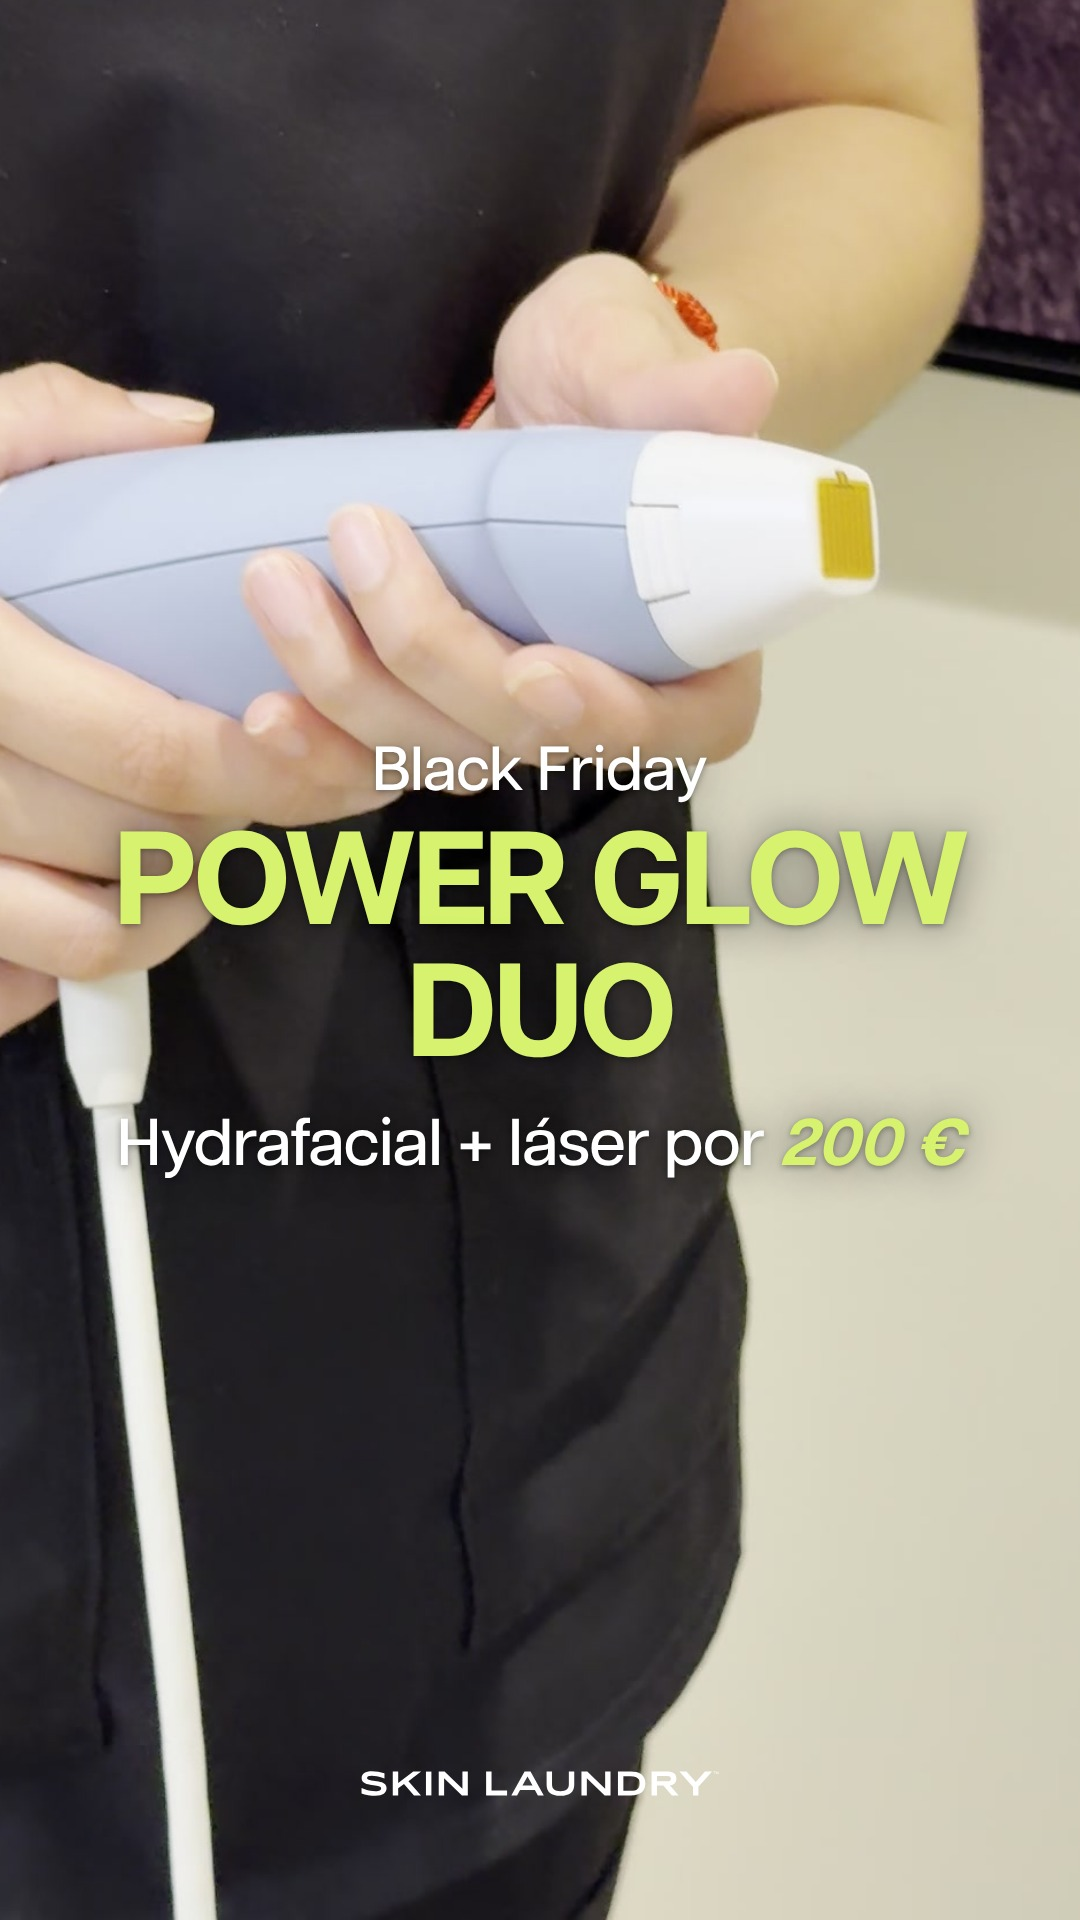
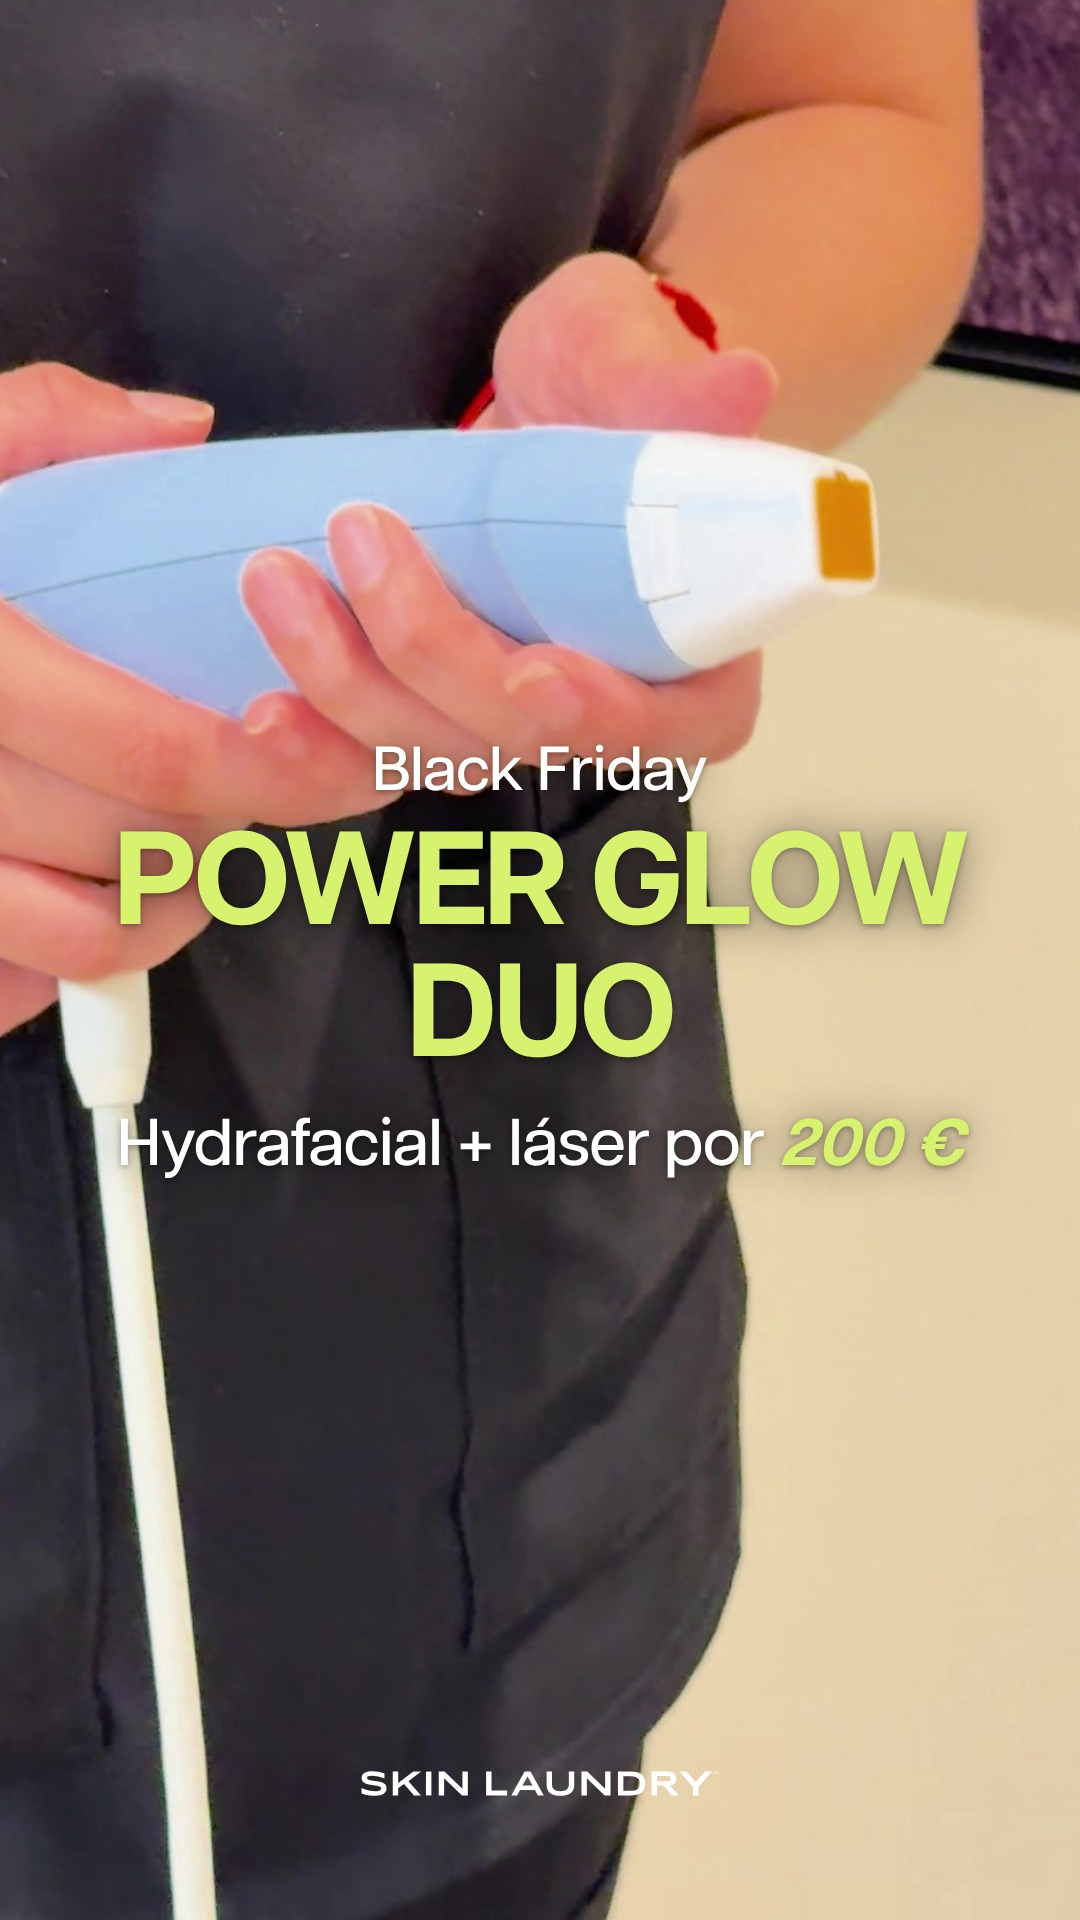
Skin Laundry: portada del 28 con conversión HDR a SDR (color real)
Claude-Session: https://claude.ai/code/session_01JZ4qrB4vBJCM1LriYw1bZU

diff --git a/public/pitch/skin-laundry-calendario/noviembre/index.html b/public/pitch/skin-laundry-calendario/noviembre/index.html
@@ -827,7 +827,7 @@ Reserva la tuya desde el enlace de la bio.
 📍 Av. Diagonal 610, Barcelona
 #Manchas #Melasma #LaserFacial #SkinLaundryBarcelona` },
 
-{ d:28, formato:"Reel", portada:"/pitch/skin-laundry-calendario/noviembre/img/portada_28.jpg?v=11231721", media:"/pitch/skin-laundry-calendario/noviembre/img/drive-d28.mp4?v=11231608", estado:"listo", nota:"Montado desde brutos sin diseño, todo sobre vídeo (sin fondos de color): sesión de láser de AAM (junio) + planos cortos del UGC de Guillermo (confirmar derechos con AAM) · precio Black Friday 200 € (antes 380 €), compra hasta el 30/11 y uso hasta el 28/02 (correo de Carlota, 30/10) · house nuevo a 126 BPM · hay versión sin música",  cubo:"Promociones", tema:"Power Glow", hora:"11:00h",
+{ d:28, formato:"Reel", portada:"/pitch/skin-laundry-calendario/noviembre/img/portada_28.jpg?v=11231841", media:"/pitch/skin-laundry-calendario/noviembre/img/drive-d28.mp4?v=11231608", estado:"listo", nota:"Montado desde brutos sin diseño, todo sobre vídeo (sin fondos de color): sesión de láser de AAM (junio) + planos cortos del UGC de Guillermo (confirmar derechos con AAM) · precio Black Friday 200 € (antes 380 €), compra hasta el 30/11 y uso hasta el 28/02 (correo de Carlota, 30/10) · house nuevo a 126 BPM · hay versión sin música",  cubo:"Promociones", tema:"Power Glow", hora:"11:00h",
   pieza:"Power Glow Duo: Hydrafacial + láser",
   base:"Excel 2025: Power Glow", cta:"Reserva antes de que acabe",
   idea:["Gancho sobre la fachada: «Dos tratamientos, una sola cita»","Píldora POWER GLOW DUO · Hydrafacial + láser en la misma cita","Píldora LÁSER · Unifica el tono y da luz","Píldora BLACK FRIDAY · 380 € tachado → 200 €","Cierre sobre la fachada: cómpralo hasta el 30/11 y úsalo hasta el 28/02 · Reserva antes de que acabe"],
